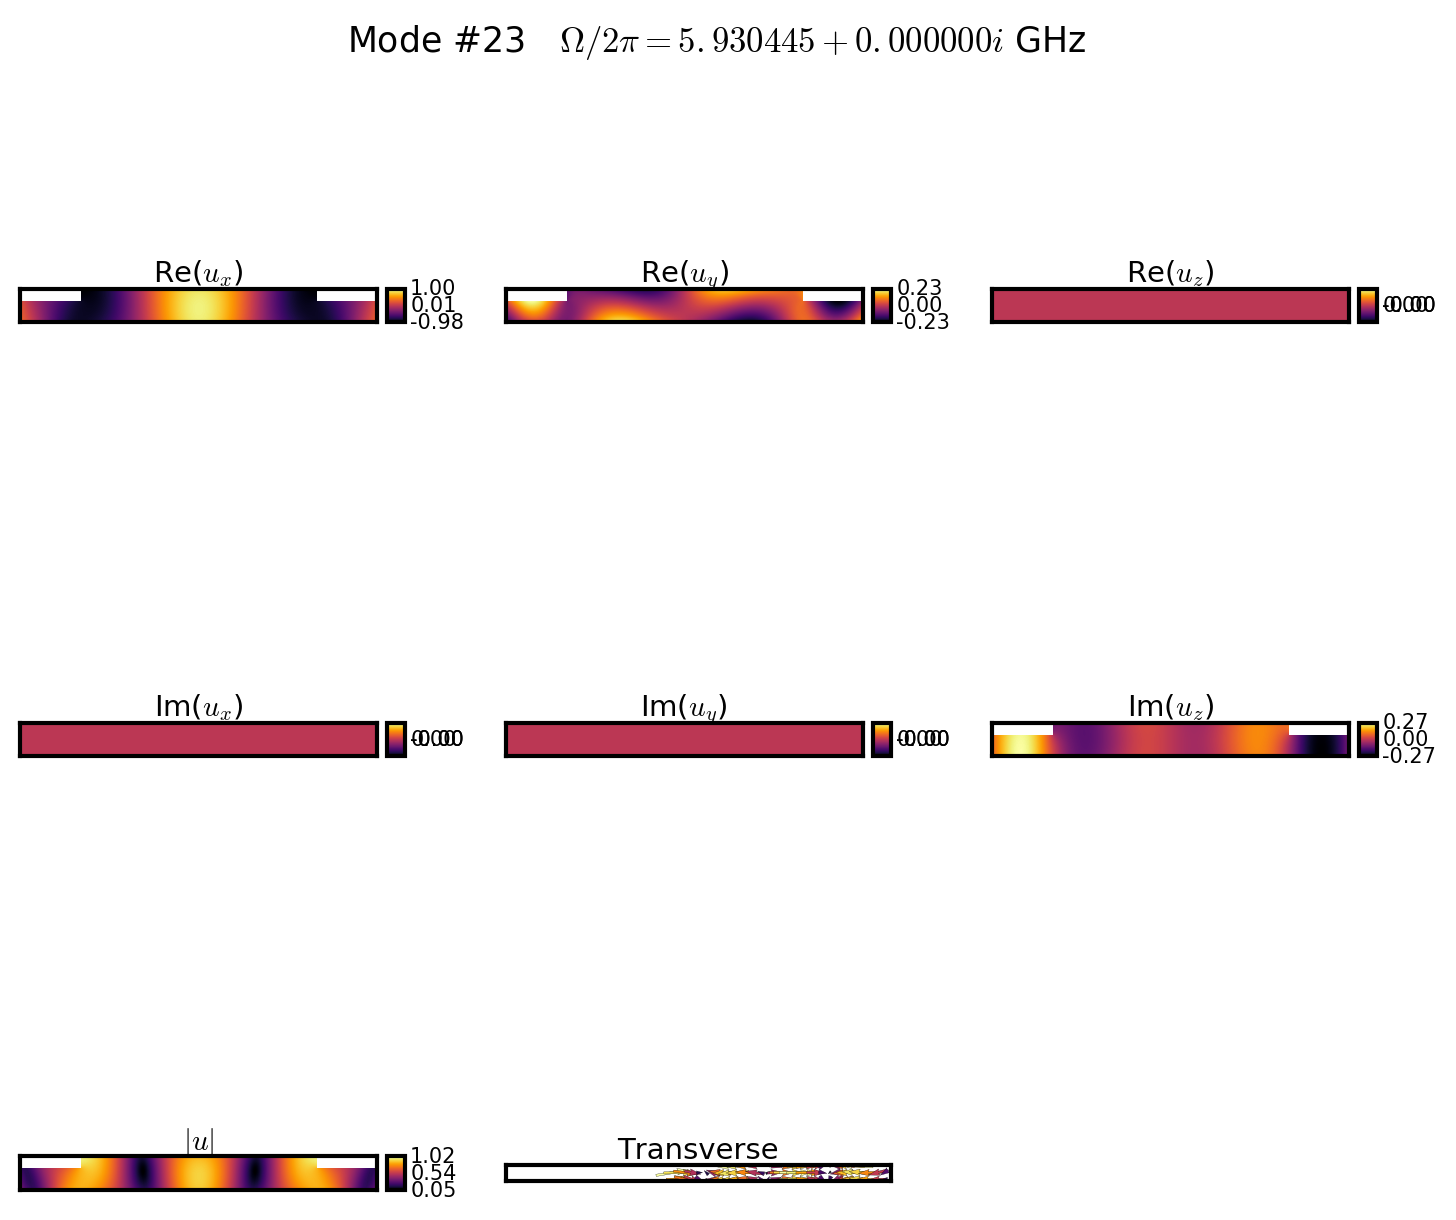
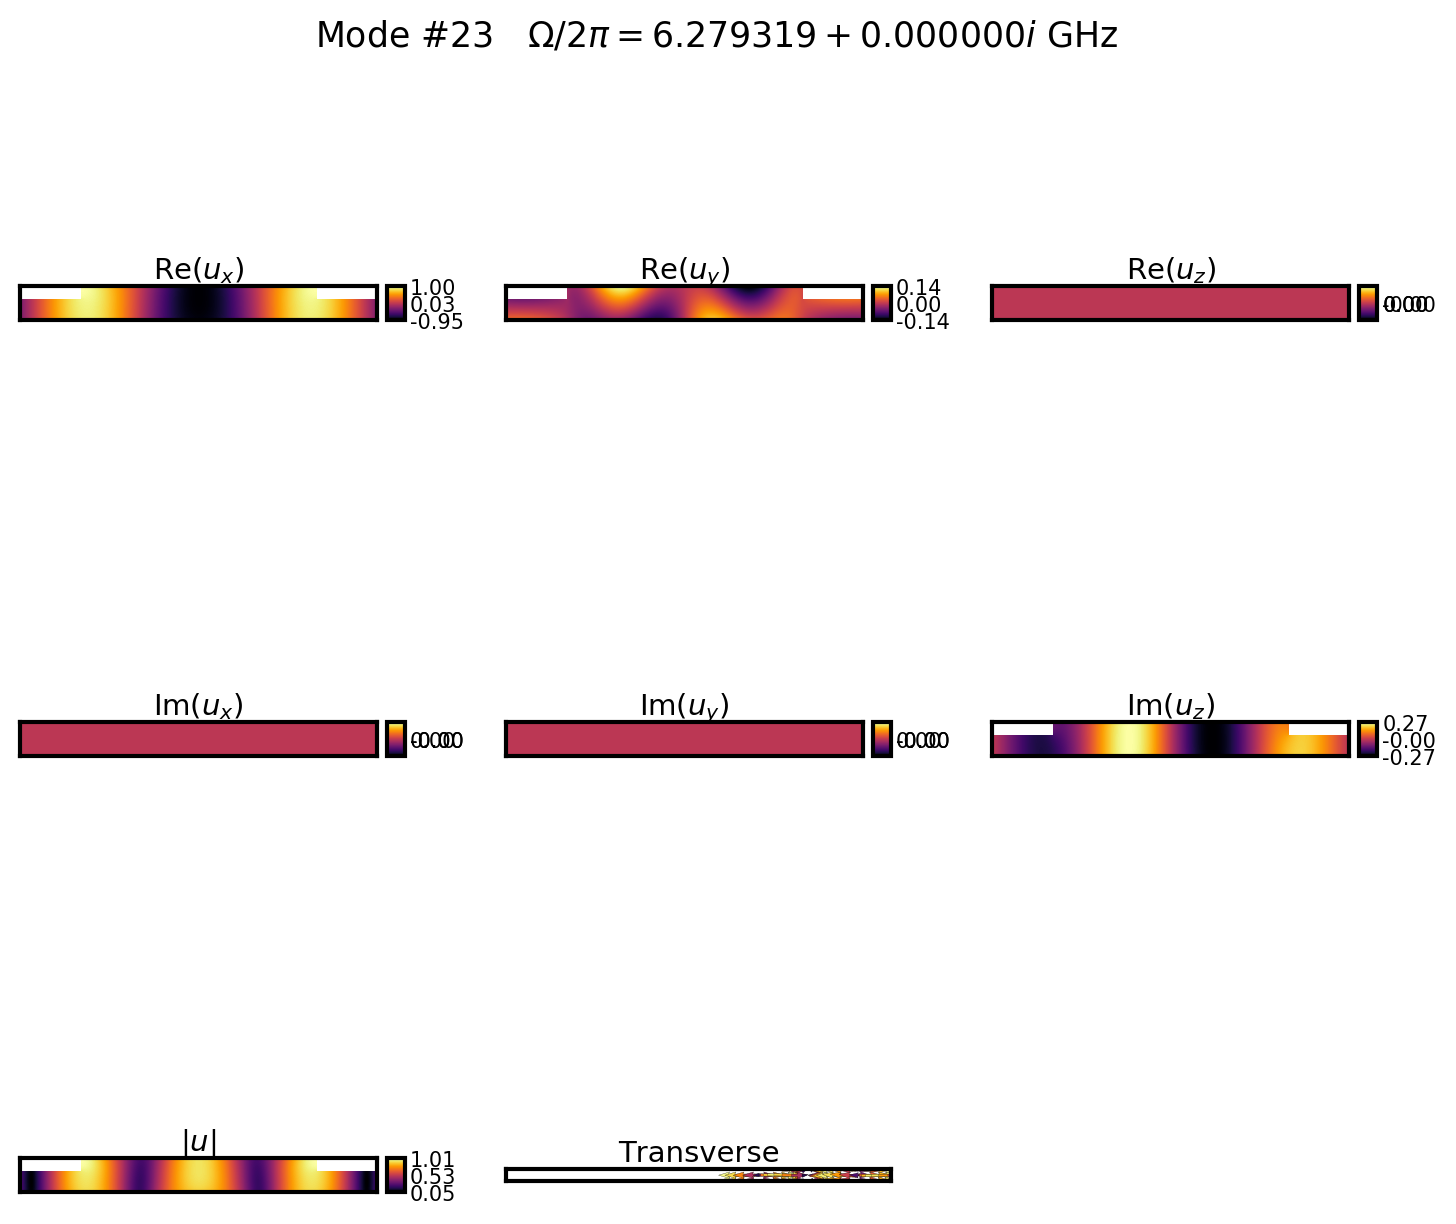
Resolved field plotting issue with lit_08: needed a thicker slab_b_y to transition the leakage field from the slab into the background mesh. Updated mesh throughout repo to have sensible units of lc_bkg = 1.

diff --git a/tutorials/simo-tut_05-convergence_study.py b/tutorials/simo-tut_05-convergence_study.py
@@ -37,9 +37,9 @@ AC_ival = 'All'
 
 prefix_str = 'tut_05-'
 
-nu_lcs = 7
-lc_bkg_list = 8*np.ones(nu_lcs)
-lc_list = [100,500,1000,1500,2000,2500,3000]
+lc_list = [20,200,500,1000,1500,2000,3000]
+nu_lcs = len(lc_list)
+lc_bkg_list = 1*np.ones(nu_lcs)
 x_axis = lc_list
 conv_list = []
 time_list = []
@@ -47,7 +47,7 @@ time_list = []
 for i_lc, lc_ref in enumerate(lc_list):
     start = time.time()
     print("\n Running simulation", i_lc+1, "/", nu_lcs)
-    lc3 = lc_ref
+    lc3 = lc_ref/5
     lc_bkg = lc_bkg_list[i_lc]
     wguide = objects.Struct(unitcell_x,inc_a_x,unitcell_y,
                             inc_a_y,inc_shape,

diff --git a/lit_examples/simo-lit_08-Kittlaus-NatComm_2017.py b/lit_examples/simo-lit_08-Kittlaus-NatComm_2017.py
@@ -41,17 +41,18 @@ slab_a_x = 2850
 slab_a_y = 135
 
 # areas included purely
-slab_b_y = 100
+slab_b_y = 500
 coat_x = 50 
 coat_y = 100
 coat2_x = 100
 coat2_y = 200
-lc_bkg = 4  # background
-lc2 = 8000  # edge of rib
-lc3 = 3000   # edge of slab_a 
-lc4 = 50    # edge of coat
-lc5 = 20    # edge of slab_b
-lc6 = 4     # edge of coat2
+
+lc_bkg = 1  # background
+lc2 = 2000  # edge of rib
+lc3 = 600   # edge of slab_a 
+lc4 = 10    # edge of coat
+lc5 = 4    # edge of slab_b
+lc6 = 1     # edge of coat2
 
 # Number of electromagnetic modes to solve for.
 num_modes_EM_pump = 20

diff --git a/tutorials/simo-tut_07-slot.py b/tutorials/simo-tut_07-slot.py
@@ -48,7 +48,7 @@ wguide = objects.Struct(unitcell_x,inc_a_x,unitcell_y,inc_a_y,inc_shape,
                         material_a=materials.As2S3_2017_Morrison, # slot
                         material_b=materials.SiO2_2013_Laude,     # slab
                         material_c=materials.Si_2016_Smith,       # walls of slot
-                        lc_bkg=2, lc2=2000.0, lc3=1000.0)
+                        lc_bkg=1, lc2=800.0, lc3=400.0)
 
 # Expected effective index of fundamental guided mode.
 n_eff = wguide.material_a.n-0.1

diff --git a/lit_examples/simo-lit_09-Morrison-Optica_2017.py b/lit_examples/simo-lit_09-Morrison-Optica_2017.py
@@ -66,7 +66,7 @@ wguide = objects.Struct(unitcell_x,inc_a_x,unitcell_y,inc_a_y,inc_shape,
                         material_a=materials.As2S3_2017_Morrison, # waveguide
                         material_b=materials.SiO2_2016_Smith,     # slab
                         material_c=materials.SiO2_2016_Smith,     # coating
-                        lc_bkg=5, lc2=2000.0, lc3=1000.0)
+                        lc_bkg=1, lc2=800.0, lc3=400.0)
 
 # Expected effective index of fundamental guided mode.
 n_eff = wguide.material_a.n-0.1

diff --git a/lit_examples/simo-lit_04-pillar-Van_Laer-NP_2015.py b/lit_examples/simo-lit_04-pillar-Van_Laer-NP_2015.py
@@ -58,7 +58,7 @@ wguide = objects.Struct(unitcell_x,inc_a_x,unitcell_y,inc_a_y,inc_shape,
                         material_a=Si_110,                        # rib
                         material_b=materials.SiO2_2015_Van_Laer,  # slab
                         material_c=materials.SiO2_2015_Van_Laer,  # pillar
-                        lc_bkg=6, lc2=3000.0, lc3=100.0)
+                        lc_bkg=1, lc2=800.0, lc3=500.0)
 
 # Expected effective index of fundamental guided mode.
 n_eff = wguide.material_a.n-0.1

diff --git a/lit_examples/simo-lit_03-Beugnot-NatComm_2014.py b/lit_examples/simo-lit_03-Beugnot-NatComm_2014.py
@@ -60,7 +60,7 @@ def modes_n_gain(inc_a_x):
     wguide = objects.Struct(unitcell_x,inc_a_x,unitcell_y,inc_a_y,inc_shape,
                             material_bkg=materials.Vacuum,
                             material_a=materials.SiO2_2016_Smith,
-                            lc_bkg=4, lc2=1000.0, lc3=100.0)
+                            lc_bkg=1, lc2=400.0, lc3=50.0)
 
     sim_EM_pump = wguide.calc_EM_modes(num_modes_EM_pump, wl_nm, n_eff=n_eff)
     sim_EM_Stokes = mode_calcs.bkwd_Stokes_modes(sim_EM_pump)

diff --git a/tutorials/simo-tut_08-slot_coated-scan.py b/tutorials/simo-tut_08-slot_coated-scan.py
@@ -57,7 +57,7 @@ def ac_mode_freqs(coat_y):
                             material_b=materials.SiO2_2013_Laude,     # slab
                             material_c=materials.Si_2016_Smith,       # walls of slot
                             material_d=materials.SiO2_2013_Laude,     # coating
-                            lc_bkg=5, lc2=2000.0, lc3=1000.0)
+                            lc_bkg=1, lc2=400.0, lc3=200.0)
 
     # Expected effective index of fundamental guided mode.
     n_eff = wguide.material_a.n-0.1

diff --git a/tutorials/simo-tut_01-first_calc.py b/tutorials/simo-tut_01-first_calc.py
@@ -57,7 +57,7 @@ AC_ival = 'All'
 wguide = objects.Struct(unitcell_x,inc_a_x,unitcell_y,inc_a_y,inc_shape,
                         material_bkg=materials.Vacuum,
                         material_a=materials.Si_2016_Smith,
-                        lc_bkg=2, lc2=200.0, lc3=5.0, plt_mesh=True)
+                        lc_bkg=1, lc2=600.0, lc3=300.0, plt_mesh=True)
 
 # Explicitly remind ourselves what data we're using.
 print('\nUsing %s material data from' % wguide.material_a.chemical)

diff --git a/lit_examples/simo-lit_05-Van_Laer-NJP_2015.py b/lit_examples/simo-lit_05-Van_Laer-NJP_2015.py
@@ -49,7 +49,7 @@ Si_110.rotate_axis(np.pi/4,'y-axis', save_rotated_tensors=True)
 wguide = objects.Struct(unitcell_x,inc_a_x,unitcell_y,inc_a_y,inc_shape,
                         material_bkg=materials.Vacuum,
                         material_a=Si_110, symmetry_flag=False,
-                        lc_bkg=4, lc2=3000.0, lc3=2000.0)
+                        lc_bkg=1, lc2=1200.0, lc3=800.0)
 
 # Expected effective index of fundamental guided mode.
 n_eff = wguide.material_a.n-0.1

diff --git a/lit_examples/simo-lit_04-no_pillar-Van_Laer-NP_2015.py b/lit_examples/simo-lit_04-no_pillar-Van_Laer-NP_2015.py
@@ -52,7 +52,7 @@ Si_110.rotate_axis(np.pi/4,'z-axis', save_rotated_tensors=True)
 wguide = objects.Struct(unitcell_x,inc_a_x,unitcell_y,inc_a_y,inc_shape,
                         material_bkg=materials.Vacuum,
                         material_a=Si_110, symmetry_flag=False,
-                        lc_bkg=4, lc2=3000.0, lc3=2000.0)
+                        lc_bkg=1, lc2=800.0, lc3=500.0)
 
 # Expected effective index of fundamental guided mode.
 n_eff = wguide.material_a.n-0.1

diff --git a/lit_examples/simo-lit_07-Kittlaus-NatPhot_2016.py b/lit_examples/simo-lit_07-Kittlaus-NatPhot_2016.py
@@ -65,7 +65,7 @@ wguide = objects.Struct(unitcell_x,inc_a_x,unitcell_y,inc_a_y,inc_shape,
                         material_bkg=materials.Vacuum,
                         material_a=Si_110,
                         material_b=Si_110, symmetry_flag=False,
-                        lc_bkg=5, lc2=4000.0, lc3=2000.0)
+                        lc_bkg=1, lc2=2000.0, lc3=1000.0)
 # Expected effective index of fundamental guided mode.
 n_eff = wguide.material_a.n-0.1
 

diff --git a/tutorials/simo-tut_10-onion.py b/tutorials/simo-tut_10-onion.py
@@ -45,7 +45,7 @@ wguide = objects.Struct(unitcell_x,inc_a_x,inc_shape=inc_shape,
                         material_bkg=materials.Vacuum,
                         material_a=materials.Si_2016_Smith,
                         material_b=materials.SiO2_2016_Smith,
-                        lc_bkg=2, lc2=200.0, lc3=5.0, plt_mesh=False)
+                        lc_bkg=1, lc2=100.0, lc3=5.0, plt_mesh=False)
 
 
 # Expected effective index of fundamental guided mode.
